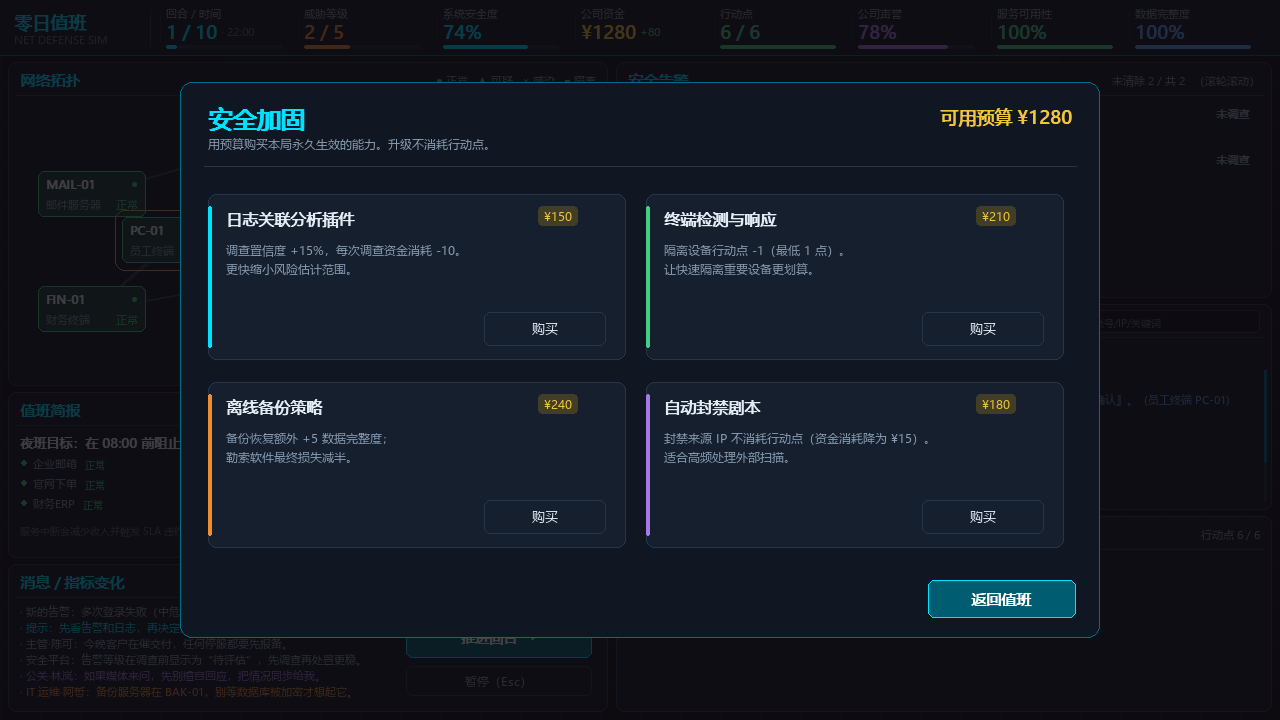
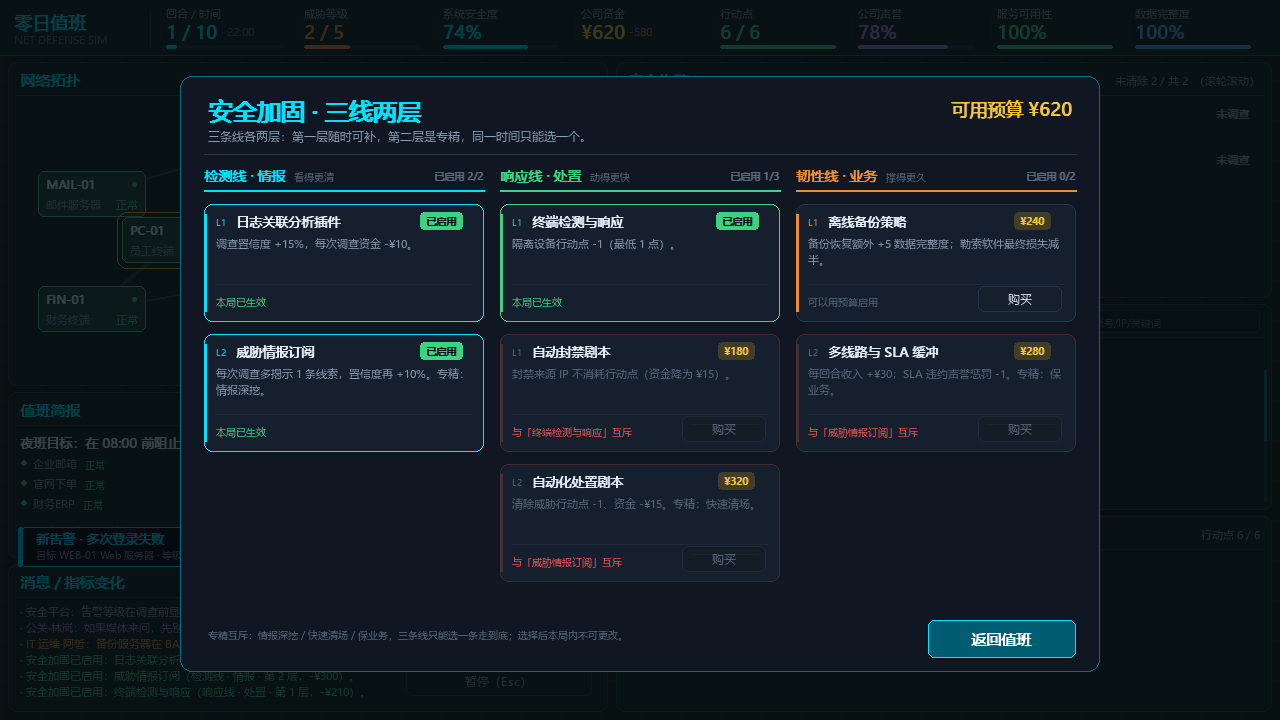
docs: 站点更新到 v1.5.0（下载区指向新包并更新校验值，补加固树与战役内容）

diff --git a/docs/index.html b/docs/index.html
@@ -4,10 +4,10 @@
   <meta charset="utf-8">
   <meta name="viewport" content="width=device-width, initial-scale=1">
   <title>零日值班 · 网络安全防御模拟器</title>
-  <meta name="description" content="零日值班：一款回合制的网络安全防御模拟。你是公司今晚唯一的安全值班员，10 个回合、6 条攻击链、每回合 6 点行动点——先控制、再清除、最后恢复业务。Windows 免安装版可下载。">
+  <meta name="description" content="零日值班：一款回合制的网络安全防御模拟。你是公司今晚唯一的安全值班员，10 个回合、6 条攻击链（分属两个攻击者战役）、7 项三线两层加固、每回合 6 点行动点——先控制、再清除、最后恢复业务。Windows 免安装版可下载。">
   <meta name="theme-color" content="#F2EFE6">
   <meta property="og:title" content="零日值班 · 网络安全防御模拟器">
-  <meta property="og:description" content="10 个回合，6 条攻击链，每回合 6 点行动点。守到早上八点，别把公司业务一起关掉。">
+  <meta property="og:description" content="10 个回合，6 条攻击链，7 项加固，每回合 6 点行动点。两个攻击者会连着出手——守到早上八点，别把公司业务一起关掉。">
   <meta property="og:image" content="assets/gameplay.png">
   <link rel="icon" href="assets/icon.png">
   <link rel="preload" as="image" href="assets/gameplay.png">
@@ -78,18 +78,19 @@
           <span class="tag">回合制</span>
           <span class="tag">策略模拟</span>
           <span class="tag">一局约 15 分钟</span>
-          <span class="tag tag-ver">v1.4.4</span>
+          <span class="tag tag-ver">v1.5.0</span>
         </p>
         <h1 class="reveal" style="--i:1">守到<br><em>早上八点。</em></h1>
         <p class="lead reveal" style="--i:2">
           你是「云栖示例科技」今晚唯一的安全值班员。22:00 交接，08:00 早会，中间 10 个回合：
-          6 条攻击链会轮流推进，而你每回合只有 <strong>6 点行动点</strong>。
+          6 条攻击链会轮流推进，其中 5 条属于两个攻击者——同一家的两次告警会标成「同源」，
+          你放着不管，对方就提前投放下一环，而你每回合只有 <strong>6 点行动点</strong>。
           调查、控制、清除、恢复——顺序错了，公司要么被打穿，要么被你自己关停。
         </p>
         <div class="cta reveal" style="--i:3">
           <a class="btn primary" href="https://github.com/telling890/zero-day-duty/releases/latest/download/ZeroDayDuty-Windows-x64.zip">
             <svg viewBox="0 0 24 24" aria-hidden="true"><path d="M12 3v12m0 0 4-4m-4 4-4-4M4 17v2a2 2 0 0 0 2 2h12a2 2 0 0 0 2-2v-2"/></svg>
-            下载 Windows 版 · 14 MB
+            下载 Windows 版 · 13.8 MB
           </a>
           <a class="btn ghost" href="#try">
             先试一回合<span class="arrow">↓</span>
@@ -99,7 +100,7 @@
           <li>Windows 10 / 11</li>
           <li>免安装 · 无需 Python</li>
           <li>1280 × 720 固定窗口</li>
-          <li>35 项自动化测试</li>
+          <li>48 项自动化测试</li>
         </ul>
         <p class="dl-hint reveal" style="--i:5">
           国内下载慢？<a href="#download">换加速镜像 ↓</a>（同一个文件，可校验 SHA256）
@@ -286,9 +287,22 @@
             </span>
             <span class="card-index">04</span>
           </header>
-          <h3>4 项安全加固</h3>
-          <p>¥150~240 的四张牌：日志插件、EDR、离线备份、自动封禁。花的是这局的预算，换的是后面的行动点。</p>
-          <div class="card-meta">¥150 · ¥180 · ¥210 · ¥240</div>
+          <h3>7 项加固，三线两层</h3>
+          <p>检测、响应、韧性三条线各两层。第二层是专精——情报深挖、快速清场、保业务，三选一，选完另外两条线就锁死。</p>
+          <div class="card-meta">¥150 ~ ¥320 · 第二层三选一</div>
+        </article>
+
+        <article class="card reveal" style="--i:4">
+          <span class="card-glow" aria-hidden="true"></span>
+          <header>
+            <span class="card-icon">
+              <svg viewBox="0 0 24 24" aria-hidden="true"><circle cx="12" cy="12" r="9"/><circle cx="12" cy="12" r="4.5"/><path d="M12 12 18 6"/></svg>
+            </span>
+            <span class="card-index">05</span>
+          </header>
+          <h3>同一攻击者会连着出手</h3>
+          <p>钓鱼、异地登录、内部导出其实是同一个「夜鸦行动」。同源告警会标出攻击者，节奏压力攒满就提前投放下一环，或者直接加速推进。</p>
+          <div class="card-meta">2 个战役 · 3 回合压力</div>
         </article>
       </div>
     </section>
@@ -337,12 +351,12 @@
 
         <figure class="reveal" style="--i:3">
           <div class="shot">
-            <img src="assets/upgrades.png" alt="安全加固商店，四项加固项目与价格" width="1280" height="720" loading="lazy" decoding="async">
-            <button class="shot-zoom" type="button" data-src="assets/upgrades.png" data-cap="安全加固：日志插件 ¥150 / 自动封禁 ¥180 / EDR ¥210 / 离线备份 ¥240" aria-label="放大查看：安全加固"></button>
+            <img src="assets/upgrades.png" alt="安全加固商店：检测、响应、韧性三条线各两层，共七项加固，第二层三选一" width="1280" height="720" loading="lazy" decoding="async">
+            <button class="shot-zoom" type="button" data-src="assets/upgrades.png" data-cap="安全加固：三线两层，第二层三选一（情报深挖 / 快速清场 / 保业务）" aria-label="放大查看：安全加固"></button>
           </div>
           <figcaption>
             <strong>安全加固</strong>
-            <span>把预算换成置信度、行动点和一份离线备份。</span>
+            <span>七项三线两层；第二层是专精，选了就回不了头。</span>
           </figcaption>
         </figure>
 
@@ -536,7 +550,7 @@
       <div class="section-head reveal">
         <p class="section-kicker">DOWNLOAD</p>
         <h2>GitHub 慢的话，走加速镜像</h2>
-        <p>下面三个链接指向同一个 14 MB 的包（v1.4.4）。镜像只是转发 GitHub 上的同一个文件，下载完可以按 SHA256 校验。</p>
+        <p>下面三个链接指向同一个 13.8 MB 的包（当前发布版 <strong>v1.5.0</strong>，含加固树与攻击战役）。镜像只是转发 GitHub 上的同一个文件，下载完可以按 SHA256 校验。</p>
       </div>
 
       <div class="dl-grid">
@@ -575,8 +589,8 @@
       Select name, size, digest</code></pre>
         </div>
         <p class="dl-note">
-          v1.4.4 的 zip 应为 <b>14,453,714 字节</b>，digest 为
-          <code>sha256:5d3ddb21cae2566f943a222437caa5c6f1f5814f15b2401a444bf89653cbecbf</code>。
+          v1.5.0 的 zip 应为 <b>14,468,245 字节</b>，digest 为
+          <code>sha256:784f776cd4a7248a0788df5e27f8a99bdf62d4838061be7e1900d71cc10ced07</code>。
           两者一致即可放心运行；不一致就换另一个镜像重下。
         </p>
       </div>

diff --git a/docs/style.css b/docs/style.css
@@ -556,6 +556,7 @@ main { position: relative; z-index: 2; }
 
 /* ------------------------------ 玩法卡片 ------------------------------ */
 .feature-grid { display: grid; grid-template-columns: repeat(2, 1fr); gap: 16px; margin-top: 20px; }
+.feature-grid > .card:last-child:nth-child(odd) { grid-column: 1 / -1; }
 .card {
   position: relative;
   display: flex;
